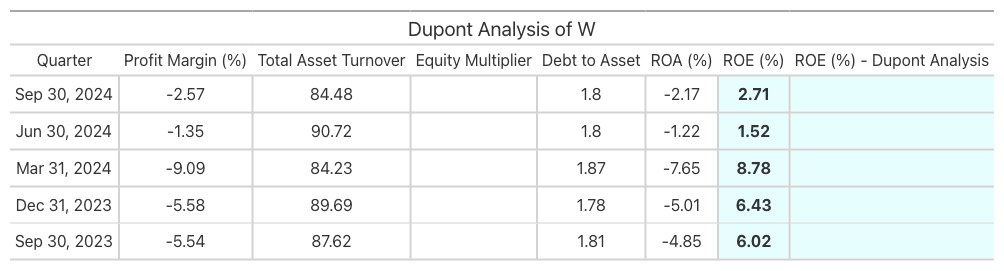
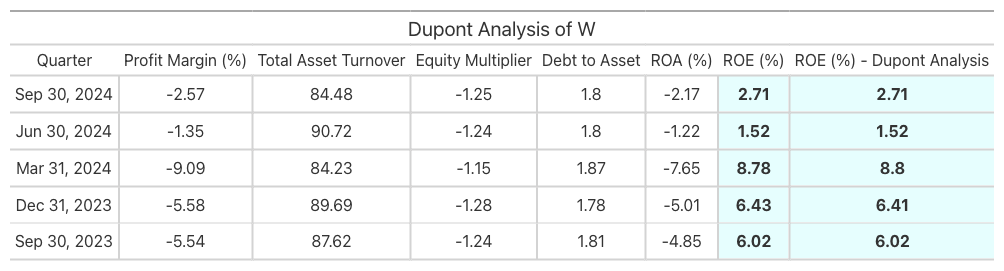
update W dupont

diff --git a/_posts/2025-01-17-Dupont_Analysis.md b/_posts/2025-01-17-Dupont_Analysis.md
@@ -26,6 +26,14 @@ With this method one can get the fuller picture of a company's overall financial
 
 ![Image]({{ site.baseurl }}/assets/figures/Tables/LYFT_dupont.png)
 
+# AMD
+
+![Image]({{ site.baseurl }}/assets/figures/Tables/AMD_dupont.png)
+
+# W
+
+![Image]({{ site.baseurl }}/assets/figures/Tables/W_dupont.png)
+
 # Kratos
 
 ![Image]({{ site.baseurl }}/assets/figures/Tables/KTOS_dupont.png)
